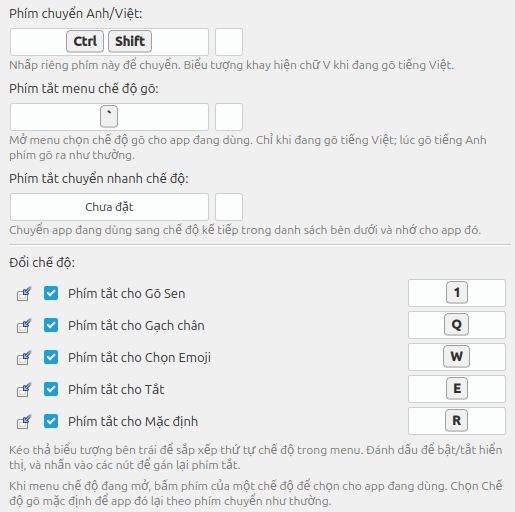
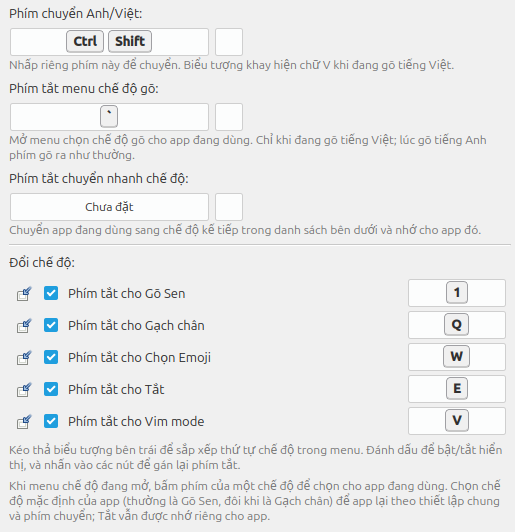
feat: publish releases 1.9.2-1, 1.9.3-1 and 1.10.0-1
Add the three RELEASES entries and their test results, update the intro,
highlights and scope note from the new README (niri, Vim mode, words
starting with /), and rewrite the /en/ release section.

The mode-menu guide pages drop "Chế độ gõ mặc định" (removed in 1.9.1)
and describe the Vim mode line; the tray icon guide covers the new
"Cỡ biểu tượng khay" option. Their screenshots were retaken with the
1.10.0-1 noble package on Linux Mint 22.1 Cinnamon.

Assisted-by: AI

Changed region(s): [[0.0, 0.0, 0.9942, 1.0], [0.435, 0.1875, 0.466, 0.2188], [0.435, 0.0312, 0.466, 0.0625]]

diff --git a/src/data/site.ts b/src/data/site.ts
@@ -33,6 +33,125 @@ export const RELEASES: {
   prRepo?: string;
 }[] = [
   {
+    version: '1.10.0-1',
+    date: '12/11/2026',
+    summary:
+      'Vim mode cho từng app trong menu chế độ: lệnh Vim đi qua nguyên vẹn, từ đầu tiên sau khi vào insert mode có dấu ngay. Từ bắt đầu bằng / giữ nguyên như gõ, cho lệnh chat và đường dẫn trong terminal. Gõ Telex quên mũ hoặc móc như “tienf”, “Nguyenx” vẫn ra tiền, Nguyễn; các tên như plông, Mnông, Đakrông gõ ra đúng chữ.',
+    changes: [
+      {
+        claim: 'Menu chế độ có thêm dòng “[v] Vim mode”, bật hoặc tắt riêng cho từng app, dùng với cả Gõ Sen và Preedit: sau Esc hoặc Ctrl+[, lệnh Vim đi qua nguyên vẹn; từ đầu tiên gõ sau lệnh vào insert mode (i, a, o, ciw…) có dấu ngay, không còn nguyên như “tieengs”.',
+        source: 'Cho nvim/vim trong terminal, Claude Code, Antigravity, plugin Vim của Obsidian và của JetBrains IDE. Trong terminal, gõ vim hay nvim ở shell rồi Enter thì Ngó Sen tự nhận ra dù tắt Vim mode; mở Vim từ lịch sử shell, qua alias hoặc git commit thì cần bật Vim mode. Chưa xử lý Esc được đổi thành chữ như jk. Chỉ kiểm bằng test tự động.',
+        pr: 302,
+      },
+      {
+        claim: 'Từ bắt đầu bằng / ở đầu dòng hoặc ngay sau dấu cách giữ nguyên từng phím, ở cả Gõ Sen và Preedit: “/cost” không còn thành “/cót”, “cd /usr/share” không còn thành “cd /ủ/share”, kể cả trong Firefox.',
+        source: 'Dùng cho lệnh chat (Claude Code, Slack, Discord) và đường dẫn trong terminal. Tuỳ chọn “Gõ thô sau dấu / đầu từ (lệnh, đường dẫn)” nằm trong nhóm Gõ nhanh ở trang Gõ chữ, mặc định bật. Gõ thử trên Ubuntu 24.04 (Firefox, Chrome) và Linux Mint 22.1 (Firefox, Chromium); terminal chưa được test lại trên gói 1.10.0-1.',
+        pr: 312,
+      },
+      {
+        claim: 'Gõ Telex quên mũ hoặc móc ở những vần luôn có chúng vẫn ra chữ đúng khi chốt bằng dấu cách, dấu câu hoặc Enter: “tienf” ra tiền, “viecj” ra việc, “Nguyenx” ra Nguyễn, “ruouj” ra rượu.',
+        source: 'Áp dụng cho 25 vần như iên, uyên, ênh, uân, ưu, ươp, khi chữ có trong từ điển. Tám từ tiếng Anh như “hues”, “yens”, “techs” vẫn giữ nguyên, nên huế và yến vẫn phải gõ đủ. VNI và VIQR chưa có. Lỗi đã biết: trong ô soạn thảo kiểu trang web của Firefox trên X11, chữ quên mũ đôi khi ra sai; textarea và Chromium đúng.',
+        pr: 696,
+      },
+      {
+        claim: 'Tên riêng có trong từ điển nhưng mở đầu bằng phụ âm ghép tiếng Việt không có, như plông, drăng, Hrê, gõ được; từ điển có thêm 44 âm tiết trong tên xã, phường và dân tộc, như Đakrông, Mnông, kmăl.',
+        source: 'Từ tiếng Anh thông dụng vẫn được ưu tiên: “draw” vẫn là draw, gõ tiếp “drawng” mới thành drăng. Cần bật kiểm tra chính tả bằng từ điển (mặc định bật). Gồm #708; “ddakroong mnoong” được gõ thử trên Ubuntu 24.04 và Linux Mint 22.1.',
+        pr: 706,
+      },
+      {
+        claim: 'Terminal hỏi password ẩn chữ thì Ngó Sen tự ngừng gõ tiếng Việt: giữ nguyên phím, không ghi nhật ký gõ; xong tự bật lại, không cần cài đặt.',
+        source: 'Riêng sudo trên Linux Mint hiện dấu * chưa nhận ra, cần bấm phím chuyển Anh/Việt. Terminal chưa được test lại trên gói 1.10.0-1.',
+        pr: 106,
+      },
+      {
+        claim: 'Tuỳ chọn “Cỡ biểu tượng khay” ở trang Giao diện: chọn Lớn thì biểu tượng ngó sen to hơn trong ô của nó trên khay, ví dụ trên KDE cao 20 px thay vì 16 px. Icon kiểu trơn (V, E, mặt cười) nay cao bằng ô ngó sen.',
+        source: 'Cỡ Lớn chỉ áp dụng khi bật “Sử dụng biểu tượng trạng thái Ngó Sen”; trên GNOME không đổi vì biểu tượng đã đầy ô, còn icon kiểu trơn cần đăng xuất rồi đăng nhập lại mới thấy. Gồm #671.',
+        pr: 675,
+      },
+      {
+        claim: 'Lệnh cài một dòng tự thêm repo APT trên Debian, Ubuntu và các distro dựa trên chúng, để nhận version mới khi cập nhật hệ thống; trang Kiểm tra máy hiện version đang chạy và repo đã bật hay chưa.',
+        source: 'Máy đã cài bằng lệnh này trước đây có thể chạy lại để thêm repo. Repo APT, pacman, zypper có thêm gói wl-ngosen cho niri, Sway, Hyprland (#702). Lệnh cài chưa được test lại trên gói 1.10.0-1.',
+        pr: 654,
+      },
+      {
+        claim: 'Gõ thừa chữ d sau một chữ có đ (kiểu “dduowjcd”) rồi bấm Backspace không còn mất nét của đ: ra “được”, không còn ra “dược”.',
+        source: 'Gõ thử trên Ubuntu 24.04 (Firefox, Chrome) và Linux Mint 22.1 (Firefox, Chromium).',
+        pr: 712,
+      },
+      {
+        claim: 'Bảng tính Lark trên Chrome: chữ đầu tiên gõ ngay sau khi chuyển ô không còn bị quên, gõ “caau” ra “câu”.',
+        source: 'Lark chưa được test lại trên gói 1.10.0-1.',
+        pr: 704,
+      },
+    ],
+  },
+  {
+    version: '1.9.3-1',
+    date: '11/11/2026',
+    summary:
+      'Bảng tính Lark trên Brave/Chrome không còn mất chữ khi chuyển ô nhanh và không còn lặp chữ đầu trên GNOME Wayland, KDE Plasma Wayland. Lệnh cài nhận ra niri. Chữ Telex sai chính tả như “moot” giữ nguyên phím đã gõ.',
+    changes: [
+      {
+        claim: 'Bảng tính Lark trên Brave/Chrome (X11): gõ Gõ Sen rồi chuyển ô nhanh bằng mũi tên hoặc Tab không còn mất chữ, kiểu gõ “laf” chỉ còn “l” và các ô sau trống.',
+        source: 'Lark chưa được test lại trên gói 1.9.3-1.',
+        pr: 681,
+      },
+      {
+        claim: 'Bảng tính Lark trên Brave/Chrome (GNOME Wayland) và Chromium/Chrome (KDE Plasma Wayland): chữ đầu tiên gõ bằng Gõ Sen trong bảng không còn bị lặp, kiểu “tieengs” ra “tieêngếng”.',
+        source: 'Gồm #697. Lark chưa được test lại trên gói 1.9.3-1.',
+        pr: 686,
+      },
+      {
+        claim: 'Gõ Telex các chữ sai chính tả như “moot”, “tienr” rồi bấm cách giữ nguyên phím đã gõ, không còn ra “môt”, “tiẻn”.',
+        source: 'Gõ thử trên Ubuntu 24.04 (GNOME 46 Wayland) trong Firefox và Chrome.',
+        pr: 693,
+      },
+      {
+        claim: 'Lệnh cài nhận ra niri như Sway và Hyprland: thêm Ngó Sen, bật fcitx5 và in dòng để fcitx5 tự chạy khi đăng nhập.',
+        source: 'niri và lệnh cài chưa được test lại trên gói 1.9.3-1.',
+        pr: 689,
+      },
+      {
+        claim: 'Gói cài (.deb, .rpm, Arch) tự kéo theo thư viện SVG của Qt, nên cửa sổ cài đặt bản Qt hiện đủ logo và biểu tượng; gói .deb và openSUSE còn kéo theo libxcb-xfixes, nên Cứu dấu trên chữ bôi đen trong app X11 không còn tự tắt.',
+        source: 'Gói dùng để gõ thử được dựng trước khi gộp thay đổi này.',
+        pr: 695,
+      },
+      {
+        claim: 'Bản IBus (ibus-ngosen): bấm Enter ngay sau chữ đang gạch chân ra đúng chữ như bấm dấu cách, có đổi dấu sau phụ âm cuối (“mootxj” ra “một”) và bung gõ tắt; bản fcitx5 không đổi.',
+        source: 'Gõ thử bằng build của ibus-ngosen#133 trên Ubuntu 26.04 (GNOME 50.1): đúng 6/6, bản trước sai 6/6.',
+        pr: 692,
+      },
+    ],
+  },
+  {
+    version: '1.9.2-1',
+    date: '11/11/2026',
+    summary:
+      'Xfce mặc định mở cửa sổ cài đặt GTK. Icon khay kiểu trơn chuyển sang màu đen khi panel sáng trên GNOME 51 và deepin; icon Ngó Sen hiện trong swaybar.',
+    changes: [
+      {
+        claim: 'Xfce mặc định mở cửa sổ cài đặt GTK và cài thư viện GTK như GNOME và Cinnamon; lựa chọn Qt hoặc GTK đã lưu vẫn được giữ.',
+        source: 'Build PR được test trên MX Linux 25.3 (Xfce X11); Xfce chưa được test lại trên gói 1.9.2-1.',
+        pr: 670,
+      },
+      {
+        claim: 'GNOME 51 không dùng theme riêng: khi chọn giao diện sáng, icon khay kiểu trơn đổi sang màu đen, không còn trắng gần như không thấy trên thanh trên cùng sáng.',
+        source: 'Đo bằng ảnh chụp trên CachyOS và Fedora 45 (GNOME 51). GNOME 43 thanh luôn tối; GNOME 44–50 chưa đo nên giữ cách cũ.',
+        pr: 672,
+      },
+      {
+        claim: 'deepin: khi dùng giao diện sáng, icon khay kiểu trơn màu đen cho hợp thanh dock sáng, không còn trắng khó thấy.',
+        source: 'Giao diện tự động vẫn dùng icon trắng. Lệnh đọc theme chạy đúng trên deepin 25; chính Ngó Sen chưa chạy thử trên deepin vì glibc của deepin cũ hơn máy dựng.',
+        pr: 673,
+      },
+      {
+        claim: 'Sway: icon Ngó Sen hiện trong swaybar, trước đây swaybar vẽ hình “không tìm thấy icon”.',
+        source: 'Kiểm tra trên CachyOS Sway 1.12; waybar vẫn hiện icon như trước, Hyprland không đổi.',
+        pr: 674,
+      },
+    ],
+  },
+  {
     version: '1.9.1-1',
     date: '10/11/2026',
     summary:
@@ -1434,7 +1553,8 @@ export const LEVELS_NOTE =
   ' Gói 1.8.3-1 do CI dựng từ PR phát hành #635 được gõ thử trên máy ảo ngày 08/11/2026: Linux Mint 22.1 (Cinnamon X11, gói “noble”, cập nhật từ 1.8.0-1 bằng cách cài file .deb) và CachyOS (KDE Plasma Wayland, gói Arch), dùng Gõ Sen, Telex, thiết lập mặc định. Firefox và Chromium, mỗi app thử trên trang textarea và contenteditable div, mỗi trường hợp 4 lượt, fcitx5 khởi động lại trước mỗi dòng test, 0,12 giây giữa các phím. Trên mỗi máy ảo, “tieengs vieetj laf ngoon nguwx cuar nguwowif vieetj nam ” ra “tiếng việt là ngôn ngữ của người việt nam” 16/16 lượt; “sose2026 tooi2 ” ra “sose2026 tôi2” 16/16 lượt (#614); “dduoxwcj parts ” ra “được parts” 16/16 lượt (#622). Tổng 96/96. Không test lại trên gói này: Ubuntu, GNOME, Sway, Hyprland, Fedora, Debian, openSUSE, Kali, VNI, cài mới, lệnh cài và trang Kiểm tra máy.' +
   ' Gói 1.9.0-1 do CI dựng từ PR phát hành #639 được gõ thử trên máy ảo ngày 09/11/2026, dùng Gõ Sen, Telex. Firefox và Chromium, mỗi app thử trên trang textarea và contenteditable div, fcitx5 khởi động lại trước mỗi dòng test, 0,12 giây giữa các phím. Linux Mint 22.1 (Cinnamon X11, gói “noble”, cập nhật từ 1.8.0-1) và CachyOS (KDE Plasma Wayland, gói Arch, cập nhật từ 1.7.6-1), mỗi máy 4 lượt: “tieengs vieetj laf ngoon nguwx cuar nguwowif vieetj nam ” ra “tiếng việt là ngôn ngữ của người việt nam”, “sose2026 tooi2 ” ra “sose2026 tôi2”, “dduoxwcj parts ” ra “được parts”, đúng 48/48 trên mỗi máy. Ubuntu 26.04 (GNOME 50.1 Wayland, fcitx5 5.1.19, gói “resolute” cài bằng apt, không có biến môi trường của install.sh, cập nhật từ 1.7.6-1), câu trên, 2 lượt tắt extension rồi 2 lượt bật: Ngó Sen nhận đúng tên app 16/16 (tắt extension thì lấy từ portal, bật thì lấy từ extension); chữ đúng 15/16. Lượt sai là Firefox tắt extension ngay sau khi cài, ra “ngư” thay vì “người”; đo lại cùng chỗ thì 1.8.3-1 đúng 8/8, 1.9.0-1 đúng 8/8. Trên cả ba máy, Ngó Sen ghi đã gửi thông báo version 1.9 một lần (đọc từ log và cài đặt, không xem trên màn hình). Không test lại trên gói này: Fedora, Debian, openSUSE, Kali, Sway, Hyprland, terminal, VNI, cài mới, lệnh cài và trang Kiểm tra máy.' +
   ' Các bản sửa được gõ thử bằng build của PR hoặc nhánh patch, so với 1.9.0-1, dùng Gõ Sen, Telex: Backspace sau chữ số (#646), ngày 09/11/2026, trên Ubuntu 26.04 (GNOME 50 Wayland) với GTK4, Firefox, Chrome và MX Linux 25.3 (Xfce X11) với GTK4, Firefox 157, Chromium 156, mỗi app 2 lượt, đều đúng, 1.9.0-1 sai ở đúng các bước đã đoán trước; ô tìm kiếm màn tổng quan (#644), ngày 09/11/2026, trên Ubuntu 24.04 (GNOME 46, fcitx5 5.1.7, tắt extension), đóng Text Editor rồi gõ “tieengs”, 3/3 lượt ô tìm kiếm giữ đúng chế độ riêng (1.9.0-1: 3/3 lượt mang chế độ của Files); Cứu dấu trong cửa sổ ẩn danh (#647), trên Arch Linux (KDE Plasma Wayland, Chromium 154), 3/3 lượt ra “nhánh” (1.9.0-1: 0/3); Backspace vào phím đang hiện nguyên (#651), trên Fedora 44 (KDE Plasma Wayland, fcitx5 5.1.23), 3 lượt mỗi app: kitty 9/9, Konsole 9/9, thanh địa chỉ Firefox 158 1/1; chọn bản trong lệnh cài (#653), trên Ubuntu 26.04 (GNOME 50), từ 1.7.6 có sẵn ibus-ngosen 1.1.0, “--ibus” rồi đăng xuất, đăng nhập lại: còn nguồn Ngó Sen, gõ ra “việt nam”, “--fcitx5”: bản IBus được gỡ, gõ ra “việt nam”, kiểm lệnh cài tự động trong container Ubuntu 24.04, Ubuntu 26.04, Fedora 44; extension không bật fcitx5 trên bản IBus (#656), trên Ubuntu 26.04 (GNOME 50.1, fcitx5 5.1.19) có bản IBus 1.2.1 và fcitx5, đăng nhập lại không còn bật fcitx5, giữ nguồn nhập, gõ ra “việt nam” (bản cũ: “vieetj nam”); chỉ kiểm bằng test tự động, chưa gõ thử trong app thật: trả phím khi gõ tới chữ số (#643), khôi phục sao lưu bản IBus (#648), cài thay bản IBus (#649), cửa sổ cài đặt (#652), menu chế độ (#659), Preedit “tôi2” (#661), chữ đầu Messenger (#663).' +
-  ' Gói 1.9.1-1 do CI dựng từ PR phát hành #664 được gõ thử trên máy ảo ngày 10/11/2026, dùng Gõ Sen, Telex. Firefox và Chromium, mỗi app thử trên trang textarea và contenteditable div, fcitx5 khởi động lại trước mỗi dòng test, 0,12 giây giữa các phím. Bốn câu: “tieengs vieetj laf ngoon nguwx cuar nguwowif vieetj nam ” ra “tiếng việt là ngôn ngữ của người việt nam”, “sose2026 tooi2 ” ra “sose2026 tôi2”, “dduoxwcj parts ” ra “được parts”, “thuwcx”, Backspace, “j ” ra “thực”. Linux Mint 22.1 (Cinnamon X11, gói deb “noble”, cập nhật từ 1.8.0-1), 3 lượt cả bốn câu, đúng 48/48. CachyOS (KDE Plasma Wayland, gói Arch, cập nhật từ 1.7.6-1), 3 lượt cả bốn câu, đúng 47/48; dòng sai ở Firefox textarea, câu đầu ra “viêt nam”: Firefox báo chữ chậm nên Ngó Sen xoá bằng Backspace, và chữ “ệt” tới Firefox trước Backspace; lỗi này đã có từ trước, các bản sửa của 1.9.1 không đụng tới, cùng chỗ ở lượt sau thì đúng. Ubuntu 26.04 (GNOME 50.1 Wayland, fcitx5 5.1.19, gói deb “resolute” cài bằng apt), câu đầu và câu “thuwcx”, 2 lượt tắt extension rồi 2 lượt bật: chữ trong ô đúng 32/32 (một dòng bộ đo đọc thiếu chữ cuối, ảnh chụp và chữ Firefox báo đều đúng); Ngó Sen nhận đúng tên app 16/16 khi tắt extension (từ portal) và 16/16 khi bật (từ extension). Câu “thuwcx” đúng trên cả ba máy: 12/12, 12/12, 16/16. Không test lại trên gói này: Fedora, Debian, openSUSE, Kali, Sway, Hyprland, terminal, VNI, cài mới, lệnh cài, Messenger.';
+  ' Gói 1.9.1-1 do CI dựng từ PR phát hành #664 được gõ thử trên máy ảo ngày 10/11/2026, dùng Gõ Sen, Telex. Firefox và Chromium, mỗi app thử trên trang textarea và contenteditable div, fcitx5 khởi động lại trước mỗi dòng test, 0,12 giây giữa các phím. Bốn câu: “tieengs vieetj laf ngoon nguwx cuar nguwowif vieetj nam ” ra “tiếng việt là ngôn ngữ của người việt nam”, “sose2026 tooi2 ” ra “sose2026 tôi2”, “dduoxwcj parts ” ra “được parts”, “thuwcx”, Backspace, “j ” ra “thực”. Linux Mint 22.1 (Cinnamon X11, gói deb “noble”, cập nhật từ 1.8.0-1), 3 lượt cả bốn câu, đúng 48/48. CachyOS (KDE Plasma Wayland, gói Arch, cập nhật từ 1.7.6-1), 3 lượt cả bốn câu, đúng 47/48; dòng sai ở Firefox textarea, câu đầu ra “viêt nam”: Firefox báo chữ chậm nên Ngó Sen xoá bằng Backspace, và chữ “ệt” tới Firefox trước Backspace; lỗi này đã có từ trước, các bản sửa của 1.9.1 không đụng tới, cùng chỗ ở lượt sau thì đúng. Ubuntu 26.04 (GNOME 50.1 Wayland, fcitx5 5.1.19, gói deb “resolute” cài bằng apt), câu đầu và câu “thuwcx”, 2 lượt tắt extension rồi 2 lượt bật: chữ trong ô đúng 32/32 (một dòng bộ đo đọc thiếu chữ cuối, ảnh chụp và chữ Firefox báo đều đúng); Ngó Sen nhận đúng tên app 16/16 khi tắt extension (từ portal) và 16/16 khi bật (từ extension). Câu “thuwcx” đúng trên cả ba máy: 12/12, 12/12, 16/16. Không test lại trên gói này: Fedora, Debian, openSUSE, Kali, Sway, Hyprland, terminal, VNI, cài mới, lệnh cài, Messenger.' +
+  ' Các bản sửa của 1.9.2 được kiểm bằng build của từng PR: cửa sổ cài đặt trên Xfce (#670), trên máy ảo MX Linux 25.3 (Xfce X11, có cả PyQt6 lẫn libadwaita), gói “trixie” của PR mở cửa sổ bản GTK; test tự động trước khi sửa đỏ 2 bài; icon khay GNOME 51 (#672), đo bằng ảnh chụp thanh trên cùng trên máy ảo CachyOS và Fedora 45 (GNOME 51): chọn giao diện sáng thì thanh sáng và icon V màu đen; GNOME 43 (Debian 12) thanh luôn tối, GNOME 44–50 chưa đo nên giữ cách cũ; deepin (#673), trên máy ảo deepin 25, đổi theme toàn cục rồi chụp dock: “nirvana.light” dock sáng, “nirvana.dark” dock tối, lệnh đọc theme chạy đúng trên máy ảo; chính Ngó Sen chưa chạy thử trên deepin vì glibc của deepin cũ hơn máy dựng, theme tự động vẫn dùng icon trắng; swaybar (#674), trên máy ảo CachyOS Sway 1.12, swaybar vẽ icon Ngó Sen, waybar vẫn hiện icon như trước, Hyprland không đổi; tệp giấy phép (#680) chỉ đổi chữ, hai link bản lưu được mở thử, đúng trang. Gói 1.9.2-1 do CI dựng từ PR phát hành #682 được gõ thử trên máy ảo ngày 11/11/2026, dùng Gõ Sen, Telex. Firefox và Chromium, mỗi app thử trên trang textarea và contenteditable div, fcitx5 khởi động lại trước mỗi dòng test, 0,12 giây giữa các phím. Bốn câu: “tieengs vieetj laf ngoon nguwx cuar nguwowif vieetj nam ” ra “tiếng việt là ngôn ngữ của người việt nam”, “sose2026 tooi2 ” ra “sose2026 tôi2”, “dduoxwcj parts ” ra “được parts”, “thuwcx”, Backspace, “j ” ra “thực”. CachyOS (KDE Plasma Wayland, gói Arch, cập nhật từ 1.7.6-1), 2 lượt cả bốn câu, đúng 32/32. Từ 1.9.1 không đổi phần gõ chữ nên chỉ test một máy. Không test lại trên gói này: Linux Mint, Ubuntu, GNOME, Fedora, Debian, openSUSE, Kali, Sway, Hyprland, Xfce, deepin, terminal, VNI, cài mới, lệnh cài. Gói 1.9.3-1 do CI dựng từ PR phát hành #699 (trước khi gộp #695 và #700, hai PR chỉ đổi phụ thuộc gói và lệnh cài) được gõ thử trên máy ảo ngày 11/11/2026, dùng Gõ Sen, Telex, 0,15 giây giữa các phím. Ubuntu 24.04 (GNOME 46 Wayland, gói deb “noble” cài bằng apt, cập nhật từ 1.5.5), Firefox và Chrome, trang textarea, 2 lượt mỗi câu: “tieengs vieetj laf ngoon nguwx cuar nguwowif vieetj nam ” ra “tiếng việt là ngôn ngữ của người việt nam”, “sose2026 tooi2 ” ra “sose2026 tôi2”, “dduoxwcj parts ” ra “được parts”, “thuwcx”, Backspace, “j ” ra “thực”, “moot tienr ” giữ nguyên (#693). Chrome đúng 10/10; Firefox đúng 9/10, lượt sai là lần gõ đầu tiên ngay sau khi mở Firefox, “sose2026” ra “soése026”; gõ lại câu đó 10 lượt thì đúng 10/10. Enter sau chữ gạch chân của bản IBus (#692) được gõ thử bằng build của ibus-ngosen#133 trên Ubuntu 26.04 (GNOME 50.1): đúng 6/6, bản trước sai 6/6. Không test lại trên gói này: Ubuntu 26.04, KDE, Lark, Fedora, Debian, openSUSE, Arch, Sway, Hyprland, niri, terminal, VNI, cài mới, lệnh cài. Gói 1.10.0-1 do CI dựng từ PR phát hành #715 được gõ thử trên máy ảo ngày 12/11/2026, dùng Gõ Sen, Telex. Bảy câu: “tieengs vieetj laf ngoon nguwx cuar nguwowif vieetj nam ” ra “tiếng việt là ngôn ngữ của người việt nam”, “sose2026 tooi2 ” ra “sose2026 tôi2”, “dduoxwcj parts ” ra “được parts”, “/cost cd /usr/share ” giữ nguyên, “tienf nguyenx luanj ” ra “tiền nguyễn luận”, “ddakroong mnoong ” ra “đakrông mnông”, “dduowjcd”, Backspace ra “được”. Ubuntu 24.04 (GNOME 46 Wayland, gói deb “noble” cài bằng apt đè lên bản có sẵn), Firefox và Chrome, trang textarea, 2 lượt mỗi câu, 0,15 giây giữa các phím: đúng 27/28; lượt sai là lượt đầu câu “ddakroong mnoong” trong Firefox ra “mnong”, gõ lại câu đó 18 lượt thì đúng 18/18. Linux Mint 22.1 (Cinnamon X11, gói deb “noble”), Firefox và Chromium, trang textarea và contenteditable div, fcitx5 khởi động lại trước mỗi dòng test, 0,12 giây giữa các phím, 2 lượt: đúng 55/56. Lượt sai ở Firefox div, câu “tienf nguyenx luanj” ra “tiền nguyễn lu”; gõ lại 10 lượt thì sai thêm 1 (“luạnậ”). Ở cả hai lượt sai, Firefox không báo lại chữ sau khi Ngó Sen thay “ạn” bằng “ận”. Đây là lỗi đã biết của version này: chỉ gặp ở chữ gõ quên mũ, trong ô soạn thảo kiểu trang web của Firefox trên X11; textarea và Chromium đúng. Ba lần dựng gói trước đó tìm ra bốn chỗ từ bắt đầu bằng “/” vẫn bị bỏ dấu, đã sửa trong #716, #718, #719 và #721. Vim mode chỉ được kiểm bằng test tự động. Không test lại trên gói này: Ubuntu 26.04, KDE, Lark, Fedora, Debian, openSUSE, Arch, Sway, Hyprland, niri, terminal, VNI, cài mới, lệnh cài.';
 
 // Mirrors the "Máy ARM 64-bit" row of packaging/release-notes.md, which spans several distros and cores.
 export const ARM_NOTE = {
@@ -1556,7 +1676,7 @@ export const DISTRIBUTIONS: Distribution[] = [
 ];
 
 // Mirrors the introduction and features in README.md in ngosen/ngosen.
-export const TAGLINE = 'Bộ gõ tiếng Việt cho fcitx5 trên Linux, cho trải nghiệm gõ như UniKey trên Windows.';
+export const TAGLINE = 'Bộ gõ tiếng Việt cho Linux, gõ như UniKey trên Windows.';
 
 export const HIGHLIGHTS: { title: string; text: string }[] = [
   {
@@ -1565,11 +1685,15 @@ export const HIGHLIGHTS: { title: string; text: string }[] = [
   },
   {
     title: 'Cứu dấu',
-    text: 'Bôi đen chữ rồi gõ phím dấu để thêm, đổi hoặc bỏ dấu thanh, như nhanh + s → nhánh. Dùng được ở app cho bộ gõ đọc surrounding text. Chromium, Vivaldi, Cốc Cốc và WPS trên X11 cũng dùng được qua chữ đang bôi đen.',
+    text: 'Bôi đen chữ rồi gõ phím dấu để thêm, đổi hoặc bỏ dấu thanh, như nhanh + s → nhánh. Ở Gõ Sen, click ngay sau từ rồi gõ phím dấu cũng sửa được, không cần bôi đen.',
+  },
+  {
+    title: 'Menu chế độ riêng cho từng app',
+    text: 'Bấm phím ` để mở menu cạnh con trỏ, chọn Gõ Sen (1), Gạch chân (q), Chọn Emoji (w) hoặc Tắt (e), và bật Vim mode (v) cho app dùng phím Vim như nvim hay Claude Code. Ngó Sen nhớ lựa chọn riêng cho từng app.',
   },
   {
     title: 'Phím chuyển Anh/Việt riêng',
-    text: 'Cài mới dùng Ctrl+Shift như UniKey; đã cài từ trước giữ Ctrl+Space. Khi ở tiếng Anh, gõ như không có bộ gõ. Mỗi app nhớ riêng Anh hay Việt qua lần đăng xuất; app chưa bấm lần nào theo lần bấm gần nhất.',
+    text: 'Cài mới dùng Ctrl+Shift như UniKey; đã cài từ trước giữ Ctrl+Space. Mỗi app nhớ riêng đang gõ Anh hay Việt.',
   },
   {
     title: 'Gõ thẳng, không gạch chân',
@@ -1580,12 +1704,16 @@ export const HIGHLIGHTS: { title: string; text: string }[] = [
     text: 'Trình duyệt, terminal, Zalo, LibreOffice đều dùng Gõ Sen. Ngó Sen tự nhận ra app nhận chữ kiểu gì, không phải đổi chế độ.',
   },
   {
+    title: 'Lệnh và đường dẫn',
+    text: 'Từ bắt đầu bằng / giữ nguyên như gõ: /cost, cd /usr/share.',
+  },
+  {
     title: 'Cài bằng một dòng lệnh',
     text: 'Có cho Fedora, Ubuntu (từ 24.04), Debian (từ 12), Kali, deepin, LMDE, Devuan, Parrot, Arch, Artix, CachyOS và openSUSE Tumbleweed trên x86_64. Fedora, Ubuntu, Debian và Kali còn có gói ARM 64-bit. Script so hash SHA-256 và hỏi lại trước khi cài.',
   },
   {
     title: 'Cửa sổ cài đặt Qt hoặc GTK',
-    text: 'Cửa sổ cài đặt có hai bản: Qt và GTK (giống app GNOME). GNOME và Linux Mint (Cinnamon) mở bản GTK, các desktop khác mở bản Qt. Cửa sổ dùng giao diện sáng, tối của máy trên KDE và GNOME; đổi gì lưu ngay, có nút Hoàn tác.',
+    text: 'Cửa sổ cài đặt có hai bản: GTK (giống app GNOME), tự mở trên GNOME, Linux Mint Cinnamon và Xfce, và Qt trên KDE Plasma và các desktop khác. Cửa sổ theo giao diện sáng, tối của máy; đổi gì lưu ngay, có nút Hoàn tác.',
   },
 ];
 
@@ -1593,7 +1721,7 @@ export const HIGHLIGHTS: { title: string; text: string }[] = [
 // Mirrors the top of the README on main.
 export const SCOPE = {
   title: 'fcitx5 và IBus',
-  text: 'Ngó Sen làm cho fcitx5. fcitx5 chạy được trên GNOME, KDE, Xfce, Sway và Hyprland, có nhiều tính năng và nhẹ RAM. Có thêm Ngó Sen cho GNOME chạy trên IBus có sẵn của GNOME, dùng chung lõi gõ với bản fcitx5 nên tính năng gần như giống hệt. Tính năng mới có thể đến bản IBus muộn hơn bản fcitx5.',
+  text: 'Ngó Sen làm cho fcitx5. Bản fcitx5 chạy trên GNOME, KDE Plasma, Xfce, Sway, Hyprland và niri, nhẹ RAM. Có thêm Ngó Sen cho GNOME chạy trên IBus có sẵn của GNOME, dùng chung lõi gõ với bản fcitx5 nên tính năng gần như giống hệt. Tính năng mới có thể đến bản IBus muộn hơn bản fcitx5.',
   ibusRepo: IBUS_REPO,
 };
 
